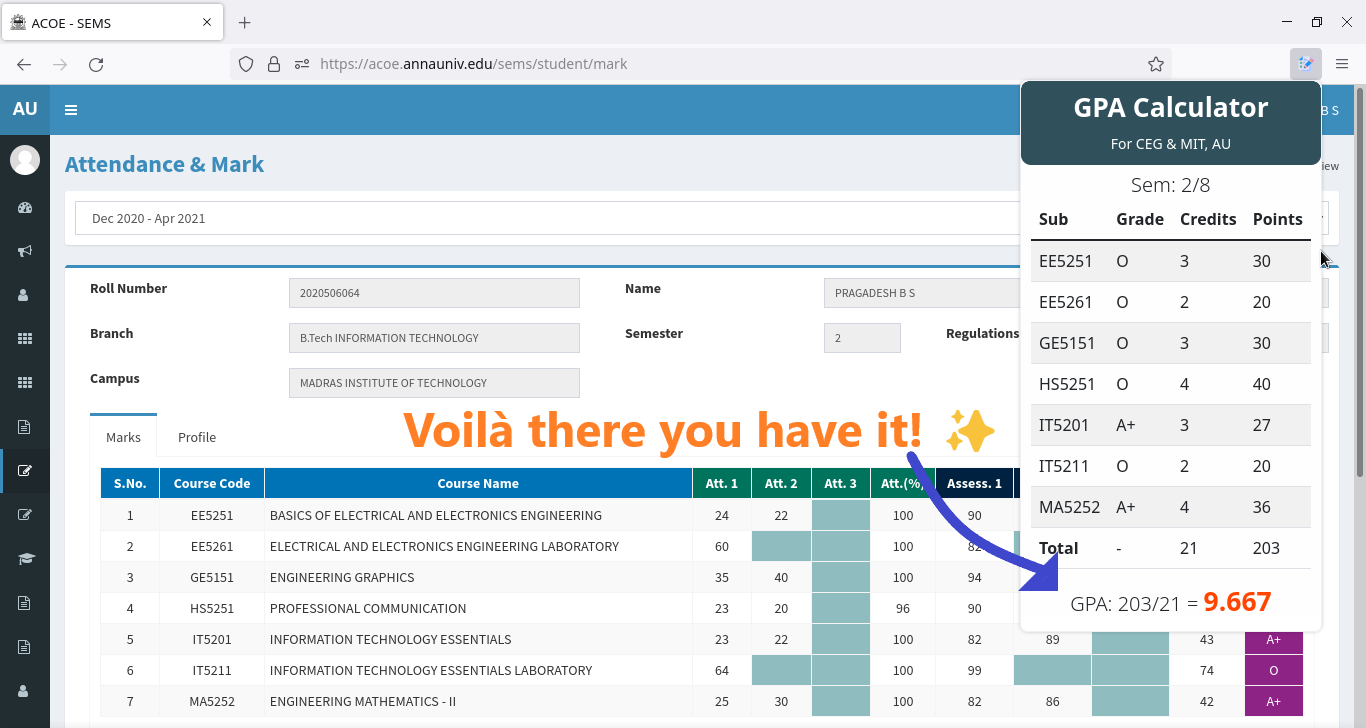
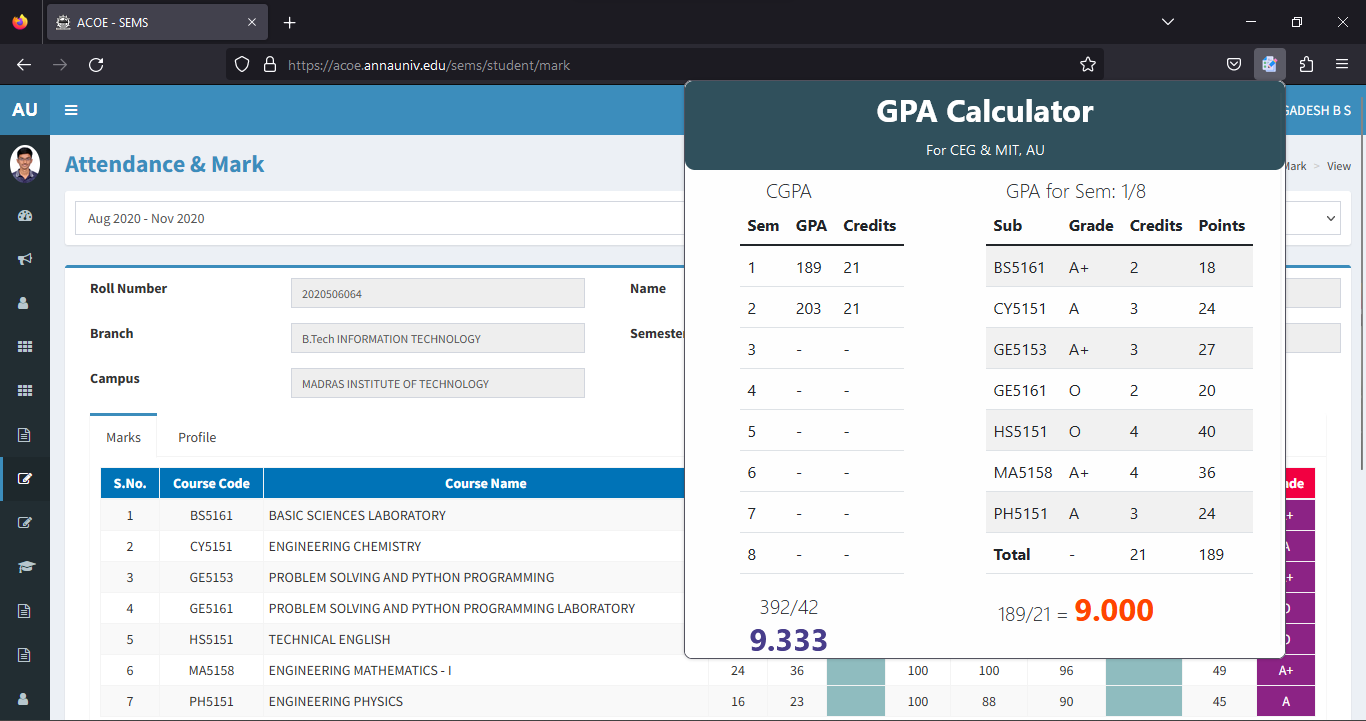
add cgpa screenshots and update readme

diff --git a/README.md b/README.md
@@ -1,33 +1,39 @@
 # GPA Calculator
 
-A Firefox extension for calculating GPA for CEG & MIT, Anna University students.
+A Firefox extension for calculating CGPA/GPA for CEG & MIT, Anna University students.
 
 ![Visits](https://gpvc.arturio.dev/PragadeshBSgpaCalcFirefoxExt)
 
-For now, works only for 
-* Regulation 2019 - IT, ECE
-* Regulation 2018 (RUSA) - CSE
+For now, works only for
+
+- Regulation 2019 - IT, ECE
+- Regulation 2018 (RUSA) - CSE
 
 Using Chromium or its forks? Checkout the [Chrome Extension](https://github.com/PragadeshBS/gpaCalcChromeExt)
 
 ## Screenshots
+
 <img src="screenshots/ff1.png" width="75%">
 <img src="screenshots/ff2.png" width="75%">
 
 ## Installation
+
 ### Mozilla Firefox, LibreWolf and most other Firefox forks
+
 Grab the extension from [here](https://addons.mozilla.org/en-US/firefox/addon/augpa/)
 
 ## Usage
-* Visit the **Attendance & Marks** section in your SEMS dashboard.
-* Choose the preferred semester for which you want to calculate your GPA. 
-* Click on the *GPA Calculator* extension icon in the browser toolbar
-* Voilà you get the individual grade points for each subject, as well as the Grade Point Average for that entire semester.
+
+- Visit the **Attendance & Marks** section in your SEMS dashboard.
+- Choose the preferred semester for which you want to calculate your GPA.
+- Click on the _GPA Calculator_ extension icon in the browser toolbar
+- Voilà you get the individual grade points for each subject, as well as the Grade Point Average for that entire semester.
+- Visit each semester to calculate your CGPA as well
 
 ## Privacy and other technical details
+
 #### TL;DR - No collection or sharing of personal information.
-The extension reads the DOM only on the *Attendance & Marks* section in your SEMS dashboard, specifically on the url *acoe.annauniv.edu/sems/student/mark*. This is done to get the semester, the subjects for that specific semester and your grades for those subjects. The extension then performs the necessary calculations locally on your machine. It does not transmit / receive any data over the network. This tool being a FOSS, you have the ability to verify the above for yourself. Only you can see your grades.  :cat:
 
+The extension reads the DOM only on the _Attendance & Marks_ section in your SEMS dashboard, specifically on the url _acoe.annauniv.edu/sems/student/mark_. This is done to get the semester, the subjects for that specific semester and your grades for those subjects. The extension then performs the necessary calculations locally on your machine. It does not transmit / receive any data over the network. This tool being a FOSS, you have the ability to verify the above for yourself. Only you can see your grades.
 
-
-:star2: Found this useful? Star this repo to show your appreciation 
+:star2: Found this useful? Star this repo to show your appreciation
